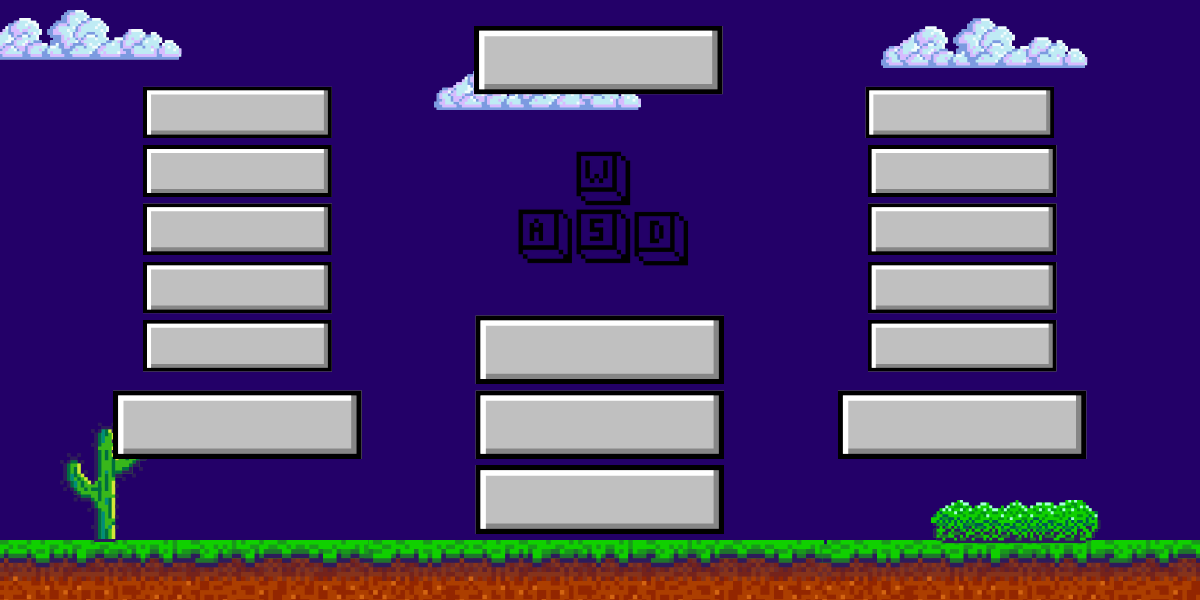
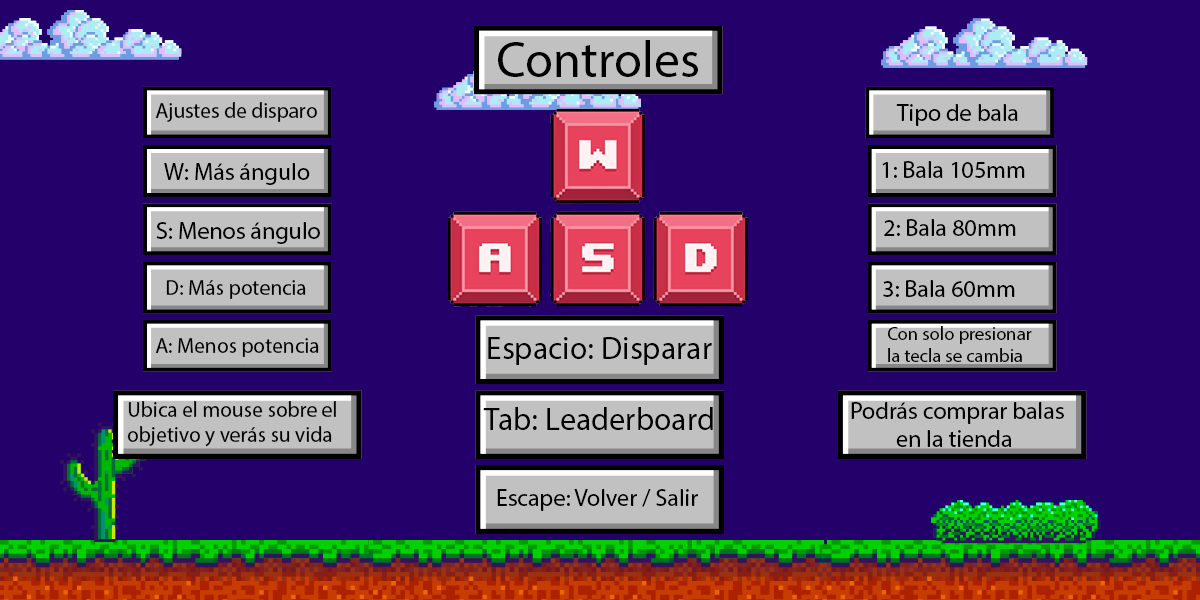
Cambio en pestaña de controles

diff --git a/Juego.py b/Juego.py
@@ -127,42 +127,11 @@ class Juego:
             if salir:
                 break
 
-    def controles(screen): # Función que maneja la pestaña que muestra los controles del juego
+    def controles(screen): # Función para la pestaña que muestra los controles del juego
         while True: 
-            salir = False 
-            screen.fill(Datos.WHITE) 
-    
+            salir = False   
             Pantalla.pantalla.fondocontroles(screen)
-    
-            fuente = pygame.font.Font(None, 36) #Fuente inicial de tamaño 36 
-            draw_text('Controles', fuente, (Datos.PANT_ANCHO / 2.2), (Datos.PANT_ALTO / 12), Datos.BLACK, screen)  
-            draw_text('Jugador 1', fuente, (Datos.PANT_ANCHO / 7), (Datos.PANT_ALTO / 6), Datos.BLACK, screen)  
-            draw_text('Jugador 2', fuente, (Datos.PANT_ANCHO / 1.35), (Datos.PANT_ALTO / 6), Datos.BLACK, screen)  
-            fuente = pygame.font.Font(None, 23) #Cambio en el tamaño de la fuente 
-            draw_text('W: Más ángulo', fuente, (Datos.PANT_ANCHO / 7), (Datos.PANT_ALTO / 3.75), Datos.BLACK, screen) 
-            fuente = pygame.font.Font(None, 21) #Cambio en el tamaño de la fuente 
-            draw_text('Arriba: Más ángulo', fuente, (Datos.PANT_ANCHO / 1.36), (Datos.PANT_ALTO / 3.75), Datos.BLACK, screen) 
-            fuente = pygame.font.Font(None, 23) #Cambio en el tamaño de la fuente 
-            draw_text('S: Menos ángulo', fuente, (Datos.PANT_ANCHO / 7), (Datos.PANT_ALTO / 2.7), Datos.BLACK, screen) 
-            fuente = pygame.font.Font(None, 21) #Cambio en el tamaño de la fuente 
-            draw_text('Abajo: Menos ángulo', fuente, (Datos.PANT_ANCHO / 1.36), (Datos.PANT_ALTO / 2.7), Datos.BLACK, screen) 
-            fuente = pygame.font.Font(None, 23) #Cambio en el tamaño de la fuente 
-            draw_text('A: Menos potencia', fuente, (Datos.PANT_ANCHO / 7), (Datos.PANT_ALTO / 2.15), Datos.BLACK, screen) 
-            fuente = pygame.font.Font(None, 17) #Cambio en el tamaño de la fuente 
-            draw_text('Izquierda: Menos potencia', fuente, (Datos.PANT_ANCHO / 1.36), (Datos.PANT_ALTO / 2.15), Datos.BLACK, screen) 
-            fuente = pygame.font.Font(None, 23) #Cambio en el tamaño de la fuente 
-            draw_text('D: Más potencia', fuente, (Datos.PANT_ANCHO / 7), (Datos.PANT_ALTO / 1.75), Datos.BLACK, screen) 
-            fuente = pygame.font.Font(None, 20) #Cambio en el tamaño de la fuente 
-            draw_text('Derecha: Más potencia', fuente, (Datos.PANT_ANCHO / 1.36), (Datos.PANT_ALTO / 1.75), Datos.BLACK, screen) 
-            fuente = pygame.font.Font(None, 26) #Cambio en el tamaño de la fuente 
-            draw_text('1: Bala 105mm', fuente, (Datos.PANT_ANCHO / 7), (Datos.PANT_ALTO / 1.45), Datos.BLACK, screen) 
-            draw_text('2: Bala 80mm', fuente, (Datos.PANT_ANCHO / 2.2), (Datos.PANT_ALTO / 1.45), Datos.BLACK, screen) 
-            draw_text('3: Bala 60mm', fuente, (Datos.PANT_ANCHO / 1.35), (Datos.PANT_ALTO / 1.45), Datos.BLACK, screen) 
-            draw_text('Espacio: Disparar', fuente, (Datos.PANT_ANCHO / 2.3), (Datos.PANT_ALTO / 1.75), Datos.BLACK, screen) 
-            draw_text('Menu: Escape', fuente, (Datos.PANT_ANCHO / 2.2), (Datos.PANT_ALTO / 1.23), Datos.BLACK, screen) 
-    
-            pygame.display.update() 
-    
+            pygame.display.update()
             for event in pygame.event.get(): 
                 if event.type == pygame.QUIT: 
                     pygame.quit() 
@@ -230,7 +199,6 @@ class Juego:
                     if i < len(jugadores):
                         #screen.blit(imagenes.Tanque_HUDs[aux[i].color], (50, 150 + i * 60))
                         screen.blit(Imagenes.Tanque_HUDs[jugadores[i].color_tanque], (50, 150 + i * 60))
-        
             
     
             for event in pygame.event.get():
